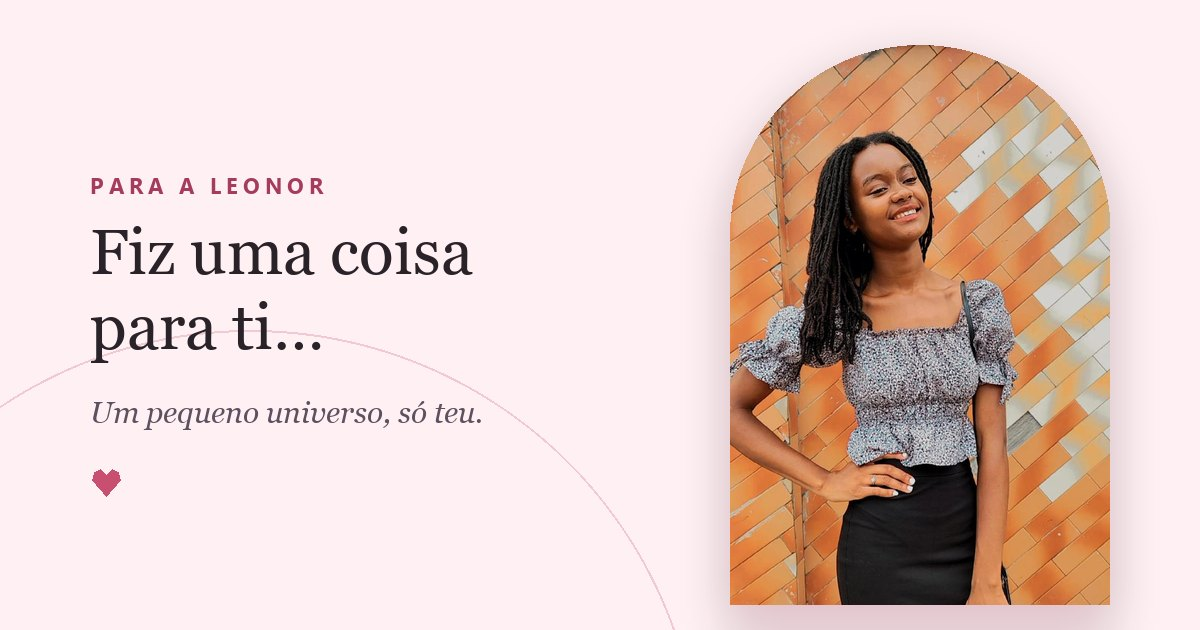
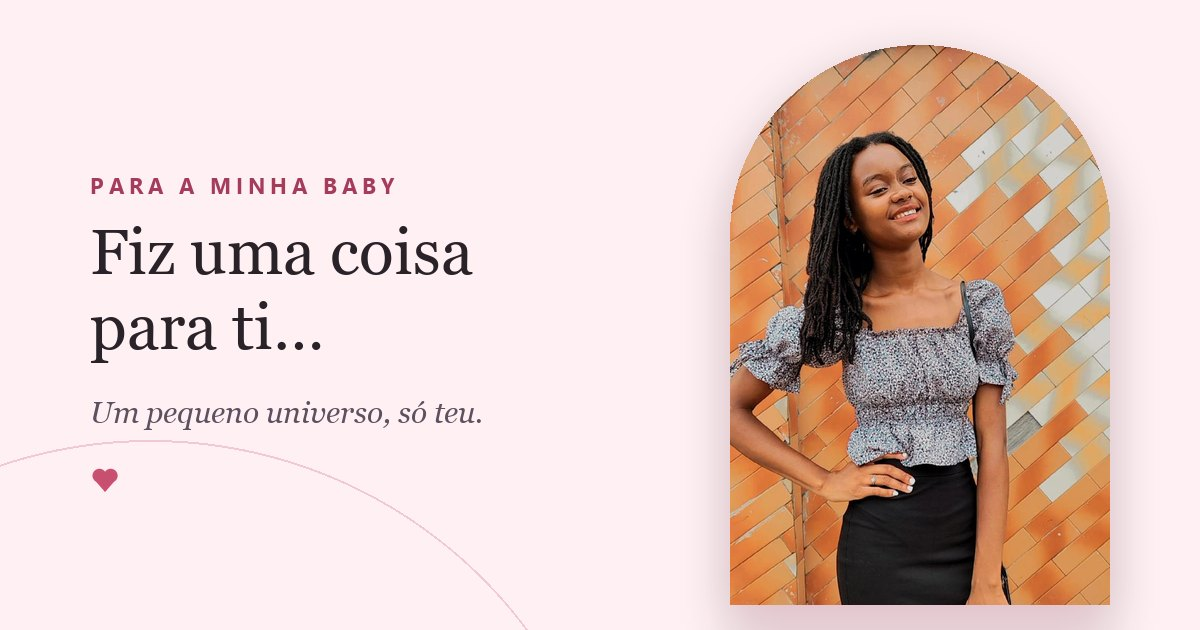
Trata-a por Baby (e às vezes querida e meu amor)

diff --git a/romantic-website/js/config.js b/romantic-website/js/config.js
@@ -9,13 +9,14 @@
 
 window.SITE_CONFIG = {
   // Nome dela. Se ficar vazio, o site usa "meu amor".
-  nome: "Leonor",
+  // Como lhe chamo. O nome verdadeiro dela (Leonor) só aparece nas descrições das fotos.
+  nome: "Baby",
 
   // O teu nome, usado na assinatura da carta e no rodapé.
   remetente: "Lourenço",
 
   // Título que aparece no separador do navegador.
-  tituloPagina: "Um pequeno universo para {nome}",
+  tituloPagina: "Um pequeno universo para a minha {nome}",
 
   /* ---------- 1. Ecrã inicial ---------- */
   intro: {
@@ -46,7 +47,7 @@ window.SITE_CONFIG = {
 
   /* ---------- 2. Abertura ---------- */
   abertura: {
-    dedicatoria: "Para {nome}",
+    dedicatoria: "Para a minha {nome}",
     titulo: "Voltaste. Eu sabia que voltavas.",
     texto:
       "Este universo cresce contigo. Desde a última vez, reescrevi quase tudo: " +
@@ -79,7 +80,7 @@ window.SITE_CONFIG = {
       "Contigo, até os dias comuns ficam bonitos.",
       "Que hoje alguém te trate com o carinho que tu dás aos outros.",
       "Se precisares de colo, já sabes onde está.",
-      "Tu és casa, {nome}.",
+      "Tu és casa, querida.",
       "Às vezes basta lembrar-me de ti para o dia mudar de cor.",
       "Acredito em ti, mesmo quando tu própria duvidas.",
       "Hoje é um bom dia para te lembrares de que és especial.",
@@ -162,7 +163,7 @@ window.SITE_CONFIG = {
           "Conclusão n.º 2: és ainda mais bonita do que nas fotografias. E nas fotografias já era difícil competir.",
           "Conclusão n.º 3: estou mais feliz. Os sintomas incluem sorrir para o telemóvel em público, ficar parvo quando dizes o meu nome e contar os dias até ao dia 10.",
           "Efeitos secundários: nenhum. Só uma vontade enorme de te ver.",
-          "Recomendação final: continuar. Por tempo indeterminado. Contigo, {nome}.",
+          "Recomendação final: continuar. Por tempo indeterminado. Contigo, meu amor.",
         ],
         despedida: "Feliz dois meses, meu amor. Assinado: o investigador principal.",
       },
@@ -182,7 +183,7 @@ window.SITE_CONFIG = {
     cenas: [
       { hora: "05:05", momento: "Amanhecer", texto: "Abro os olhos. Antes de me levantar, já fui ver se tinha mensagem tua." },
       { hora: "07:05", momento: "Manhã", texto: "Bom dia enviado. Fico a olhar para o ecrã à espera de resposta como quem espera o chapa." },
-      { hora: "13:10", momento: "Durante o dia", texto: "Alguém me conta uma coisa engraçada. A primeira coisa que penso: tenho de contar isto à {nome}." },
+      { hora: "13:10", momento: "Durante o dia", texto: "Alguém me conta uma coisa engraçada. A primeira coisa que penso: tenho de contar isto à minha {nome}." },
       { hora: "17:50", momento: "Fim de tarde", texto: "O céu fica cor-de-laranja e eu penso que tu ias gostar de ver isto." },
       { hora: "23:40", momento: "Noite", texto: "Digo que vou dormir. Continuo a falar contigo mais uma hora. Não me arrependo de nada." },
       { hora: "02:14", momento: "Madrugada", texto: "E se acordar a meio da noite, já sabes em quem penso primeiro." },
@@ -201,35 +202,35 @@ window.SITE_CONFIG = {
     fotos: [
       {
         src: "assets/images/baby.jpeg",
-        alt: "{nome} com o cabelo natural e um casaco de ganga, a mandar um beijinho",
+        alt: "Leonor com o cabelo natural e um casaco de ganga, a mandar um beijinho",
         legenda: "Prova n.º 1: és perigosa de cabelo natural.",
         nota: "Esse beijinho veio para mim. Não aceito devoluções.",
         foco: "55% 40%",
       },
       {
         src: "assets/images/babe1.jpeg",
-        alt: "{nome} com tranças e casaco branco, a fazer uma careta divertida",
+        alt: "Leonor com tranças e casaco branco, a fazer uma careta divertida",
         legenda: "Prova n.º 2: até as caretas te ficam bem. Isto não é justo.",
         nota: "Guardo esta para os dias em que preciso de me rir.",
         foco: "50% 45%",
       },
       {
         src: "assets/images/babe2.jpeg",
-        alt: "Selfie de {nome} com tranças e camisa azul",
+        alt: "Selfie da Leonor com tranças e camisa azul",
         legenda: "Prova n.º 3: o azul também te escolheu.",
         nota: "Se eu fosse esta câmara, também não queria desligar.",
         foco: "65% 45%",
       },
       {
         src: "assets/images/baby2.jpeg",
-        alt: "{nome} com tranças e casaco branco, a acenar para a câmara",
+        alt: "Leonor com tranças e casaco branco, a acenar para a câmara",
         legenda: "Prova n.º 4: um aceno teu e eu já estou do teu lado da rua.",
-        nota: "Olá, {nome}. Sim, estou a sorrir outra vez.",
+        nota: "Olá, querida. Sim, estou a sorrir outra vez.",
         foco: "50% 42%",
       },
       {
         src: "assets/images/babe.jpeg",
-        alt: "{nome} a sorrir, de pé, encostada a uma parede de azulejos cor de laranja",
+        alt: "Leonor a sorrir, de pé, encostada a uma parede de azulejos cor de laranja",
         legenda: "Prova n.º 5: o sorriso que decidiu o caso.",
         nota: "Veredicto final: a pessoa mais bonita da cidade. Sem direito a recurso.",
         foco: "45% 30%",
@@ -240,7 +241,7 @@ window.SITE_CONFIG = {
   /* ---------- 4. Carta de amor ---------- */
   carta: {
     titulo: "Coisas que ainda não te tinha dito",
-    saudacao: "{nome},",
+    saudacao: "Minha {nome},",
     paragrafos: [
       "Já te escrevi uma carta, eu sei. Mas guardei algumas coisas para uma segunda, porque são pequenas demais para dizer em voz alta e grandes demais para ficarem só comigo.",
       "Confesso que releio as nossas conversas antigas. Não todas. Só as que me fazem sorrir sozinho no meio de outras pessoas, que afinal são quase todas.",
@@ -251,7 +252,7 @@ window.SITE_CONFIG = {
     ],
     despedida: "Com o coração numa mão e o telemóvel na outra,",
     // O que está escrito no envelope e a dica por baixo dele.
-    envelope: "Para {nome} · carta n.º 2",
+    envelope: "Para a minha {nome} · carta n.º 2",
     dicaEnvelope: "Esta é nova. Toca para abrir.",
     // Se "remetente" estiver vazio, aparece este texto como assinatura.
     assinaturaAlternativa: "quem mais te admira",

diff --git a/romantic-website/index.html b/romantic-website/index.html
@@ -16,7 +16,7 @@
   <meta property="og:image:type" content="image/jpeg">
   <meta property="og:image:width" content="1200">
   <meta property="og:image:height" content="630">
-  <meta property="og:image:alt" content="Fotografia da Leonor a sorrir, com o texto: Fiz uma coisa para ti…">
+  <meta property="og:image:alt" content="Fotografia da Leonor a sorrir, com o texto: Para a minha Baby. Fiz uma coisa para ti…">
   <meta property="og:locale" content="pt_PT">
   <meta name="twitter:card" content="summary_large_image">
   <link rel="icon" href="assets/favicon.svg" type="image/svg+xml">
